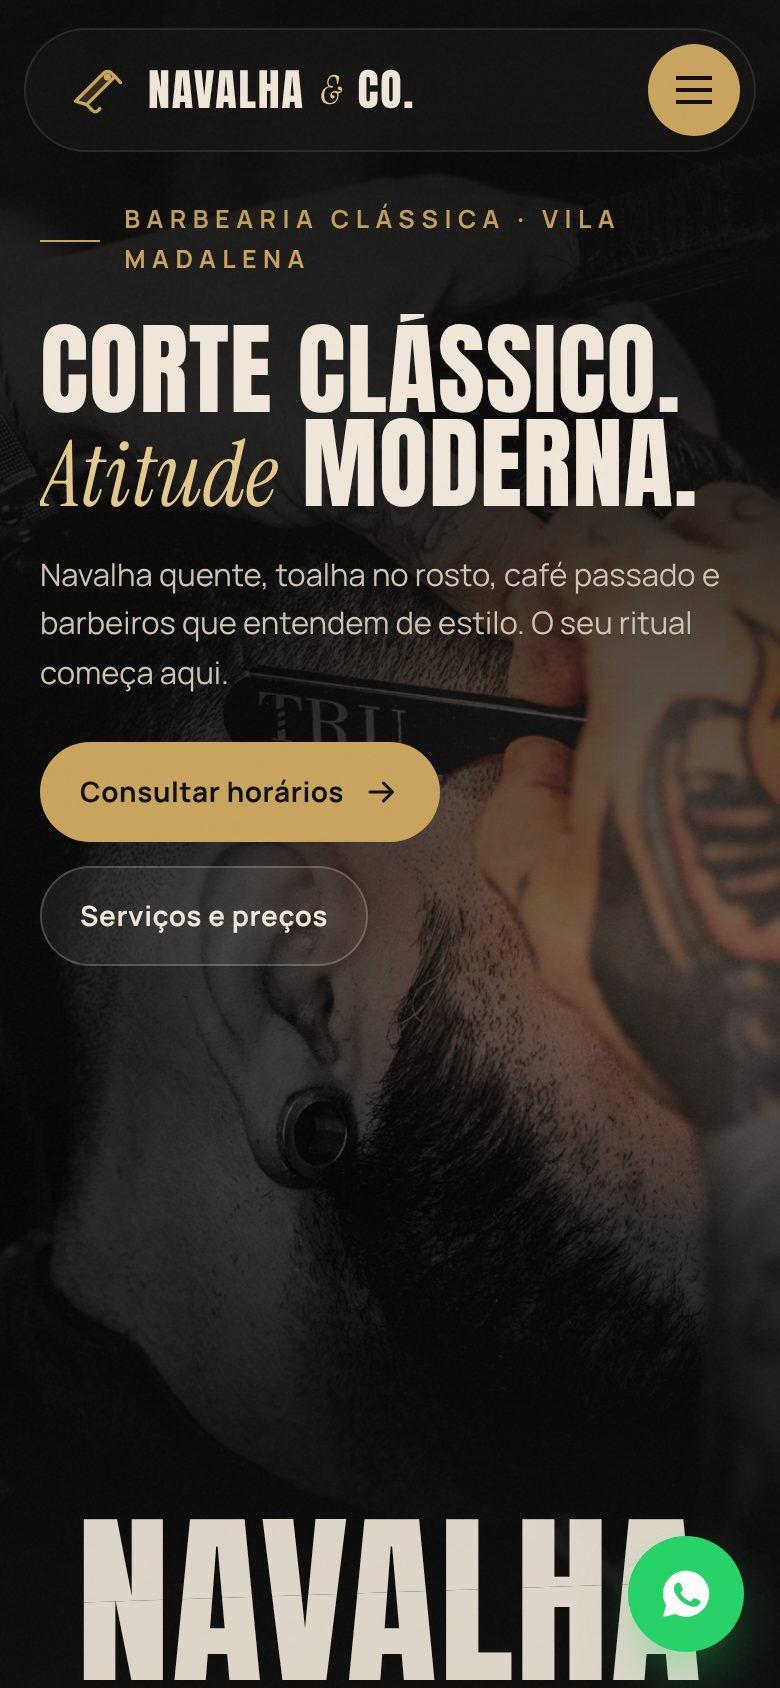
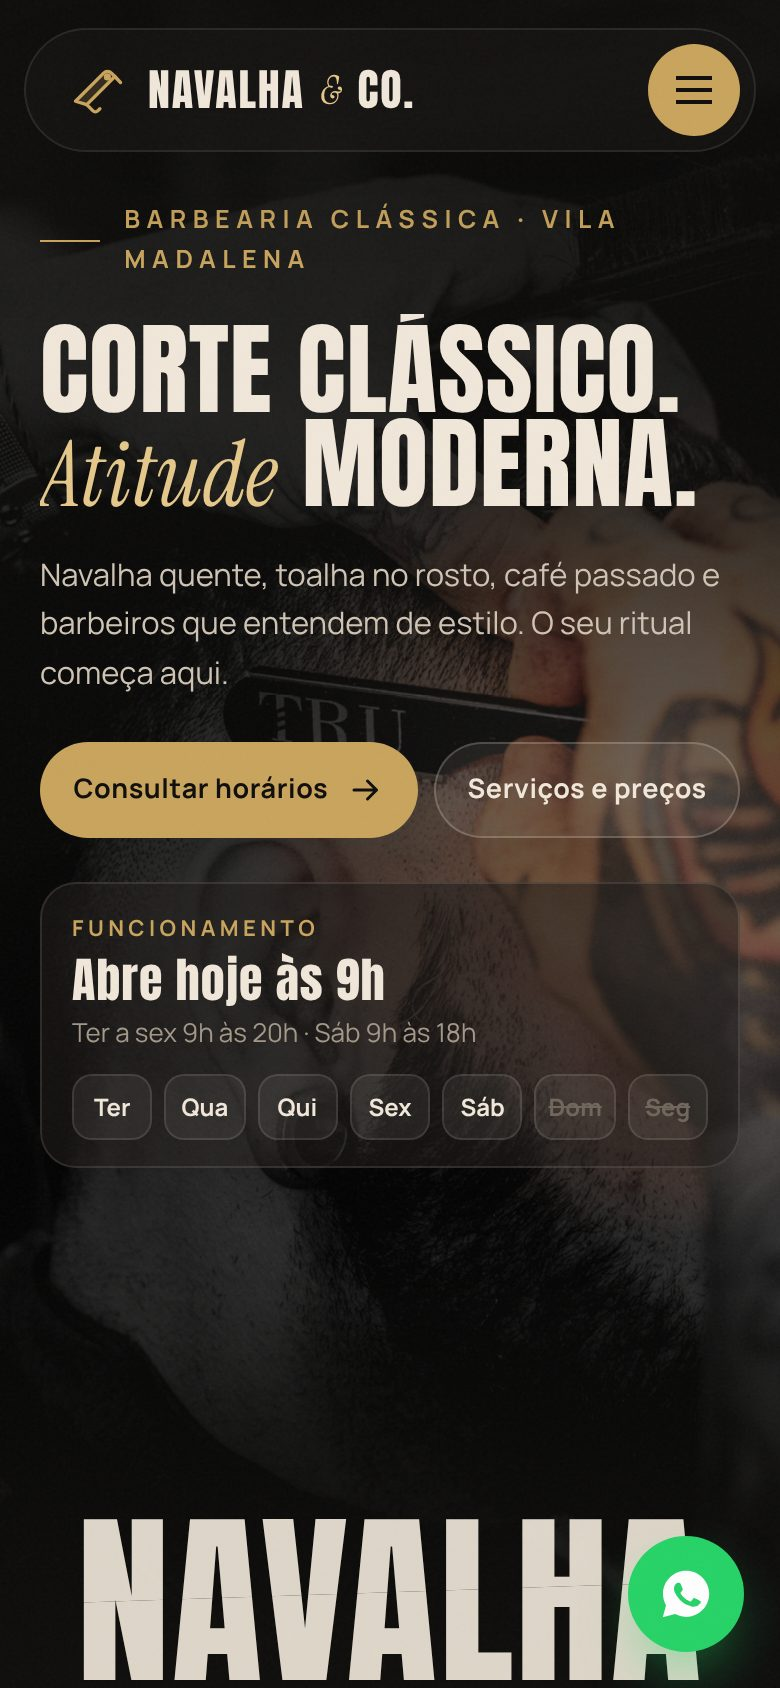
Navalha & Co.: funcionamento no celular, sem o poste lateral e finalizada
- Cartão de funcionamento (status do dia, dias e horários) aparece no
  hero do celular logo abaixo dos botões, enquadrado em telas baixas
- Poste de barbearia com porcentagem na lateral do desktop removido
- Catálogo: Navalha & Co. marcada como finalizada; capas atualizadas

Claude-Session: https://claude.ai/code/session_01QmiPwcu1vZC3FNQj5DnVy9

Changed region(s): [[0.0923, 0.4313, 0.9231, 0.7085], [0.8308, 0.5237, 0.9538, 0.5853], [0.1846, 0.6469, 0.3077, 0.6777]]

diff --git a/modelos/navalha-barbearia/index.html b/modelos/navalha-barbearia/index.html
@@ -60,13 +60,6 @@
   .ponto.on { opacity: 1; }
   @media (hover: none), (pointer: coarse) { .cur, .ponto { display: none; } }
 
-  /* POSTE (progresso) */
-  .poste { position: fixed; right: 18px; top: 50%; z-index: 70; width: 14px; height: 200px; margin-top: -100px; border-radius: 10px; padding: 3px; background: linear-gradient(90deg, #8f7442, #e6c88a 45%, #8f7442); box-shadow: 0 10px 30px -10px rgba(0,0,0,.8); }
-  .poste::before, .poste::after { content: ""; position: absolute; left: -3px; right: -3px; height: 9px; border-radius: 5px; background: linear-gradient(90deg, #8f7442, #f2dca8 45%, #8f7442); }
-  .poste::before { top: -6px; } .poste::after { bottom: -6px; }
-  .poste i { display: block; height: 100%; border-radius: 6px; background: repeating-linear-gradient(-55deg, var(--red) 0 8px, #f5efe6 8px 14px, var(--blue) 14px 22px, #f5efe6 22px 28px); background-size: 100% 200%; box-shadow: inset 3px 0 6px rgba(255,255,255,.45), inset -3px 0 6px rgba(0,0,0,.45); }
-  .poste b { position: absolute; left: 50%; bottom: -34px; transform: translateX(-50%); font-size: 11px; font-weight: 800; color: var(--muted); letter-spacing: .08em; font-variant-numeric: tabular-nums; }
-  @media (max-width: 900px) { .poste { display: none; } }
 
   /* NAV */
   .nav { position: fixed; top: 14px; left: 50%; z-index: 80; width: min(1240px, 100% - 24px); transform: translateX(-50%); transition: transform .5s var(--ease); }
@@ -97,9 +90,9 @@
   .hero h1 .ln > span { display: inline-block; transform: translateY(105%); animation: sobe 1.1s var(--ease) forwards; animation-delay: var(--d); }
   .hero h1 em { font-size: .9em; }
   @keyframes sobe { to { transform: none; } }
-  .hero p { margin-top: 22px; max-width: 470px; color: #cfc4b4; font-size: clamp(16px, 1.3vw, 19px); }
+  .hero__in > p { margin-top: 22px; max-width: 470px; color: #cfc4b4; font-size: clamp(16px, 1.3vw, 19px); }
   .hero__ctas { display: flex; flex-wrap: wrap; gap: 12px; margin-top: 30px; }
-  .hero__card { position: absolute; z-index: 3; right: max(56px, (100vw - 1240px) / 2); top: max(120px, 15vh); width: 270px; padding: 18px; border-radius: 22px; }
+  .hero__card { position: absolute; z-index: 3; right: 0; top: max(120px, 15vh); width: 270px; padding: 18px; border-radius: 22px; }
   .hero__card small { display: block; font-weight: 700; font-size: 11px; letter-spacing: .2em; text-transform: uppercase; color: var(--brass); }
   .hero__card b { display: block; font-family: var(--display); font-weight: 400; font-size: 30px; letter-spacing: .02em; margin-top: 6px; line-height: 1; }
   .hero__card p { margin-top: 8px; font-size: 13.5px; color: var(--muted); }
@@ -276,7 +269,7 @@
   .marca { margin-top: 90px; font-family: var(--display); font-size: clamp(54px, 15.5vw, 230px); line-height: 1.12; text-transform: uppercase; text-align: center; white-space: nowrap; color: transparent; -webkit-text-stroke: 1px rgba(241,232,218,.25); background: linear-gradient(90deg, var(--brass2), var(--brass2)) no-repeat; background-size: var(--enche, 0%) 100%; -webkit-background-clip: text; background-clip: text;  }
   .creditos { display: flex; justify-content: space-between; flex-wrap: wrap; gap: 10px; margin-top: 36px; font-size: 13px; color: var(--dim); }
 
-  .wa { position: fixed; right: 46px; bottom: 22px; z-index: 90; width: 58px; height: 58px; border-radius: 50%; background: #25d366; color: #fff; display: grid; place-items: center; box-shadow: 0 14px 30px -8px rgba(37,211,102,.55); transition: transform .4s var(--spring); }
+  .wa { position: fixed; right: 22px; bottom: 22px; z-index: 90; width: 58px; height: 58px; border-radius: 50%; background: #25d366; color: #fff; display: grid; place-items: center; box-shadow: 0 14px 30px -8px rgba(37,211,102,.55); transition: transform .4s var(--spring); }
   .wa:hover { transform: scale(1.1) rotate(-10deg); }
   .wa svg { width: 28px; height: 28px; }
 
@@ -294,12 +287,15 @@
     .hero__sombra { background: linear-gradient(180deg, rgba(13,12,11,.88) 0%, rgba(13,12,11,.55) 50%, rgba(13,12,11,.2) 70%, rgba(13,12,11,1) 100%); }
     .hero__in { padding-top: 100px; }
     .hero h1 { font-size: min(13vw, 8svh); }
-    .hero p { font-size: 15.5px; margin-top: 16px; }
+    .hero__in > p { font-size: 15.5px; margin-top: 16px; }
     .hero__ctas { margin-top: 22px; }
-    .hero__ctas .btn { padding: 14px 20px; font-size: 14px; }
-    .hero__card { display: none; }
+    .hero__ctas { flex-wrap: nowrap; gap: 8px; }
+    .hero__ctas .btn { padding: 13px 14px; font-size: 13.5px; white-space: nowrap; flex: 1 1 auto; }
+    .hero__card { position: relative; top: auto; right: auto; width: min(360px, 100%); margin-top: 22px; padding: 14px 16px; border-radius: 18px; }
+    .hero__card b { font-size: 22px; }
+    .hero__card p { display: block; font-size: 13px; margin-top: 4px; }
+    .hero__card .linha { margin-top: 10px; }
     .hero__card b { font-size: 24px; }
-    .hero__card p { display: none; }
     .rolar { display: none; }
     .menu { padding: 110px 0 90px; }
     .menu__grid { grid-template-columns: 1fr; gap: 40px; }
@@ -330,7 +326,9 @@
     .fim__grid { grid-template-columns: 1fr; gap: 36px; }
     .marca { margin-top: 70px; }
   }
-  @media (max-width: 900px) and (max-height: 700px) { .hero p { display: none; } }
+  @media (max-width: 900px) and (max-height: 780px) { .hero__in > p { display: none; } }
+  @media (max-width: 900px) and (max-height: 640px) { .hero .over { display: none; } }
+  @media (max-width: 380px) { .hero__ctas .btn { padding: 12px 11px; font-size: 13px; } }
   @media (max-width: 520px) {
     .chips { grid-template-columns: 1fr 1fr; }
     .dias { gap: 4px; }
@@ -366,7 +364,6 @@
 <div class="grao" aria-hidden="true"></div>
 <div class="cur" aria-hidden="true"><span></span></div>
 <div class="ponto" aria-hidden="true"></div>
-<div class="poste" aria-hidden="true"><i id="posteI"></i><b id="posteN">0%</b></div>
 <div class="flutua" id="flutua" aria-hidden="true"></div>
 
 <header class="nav" id="nav">
@@ -397,13 +394,13 @@
       <h1 style="margin-top:22px"><span class="ln"><span style="--d:.05s">Corte clássico.</span></span><span class="ln"><span style="--d:.18s"><em>Atitude</em> moderna.</span></span></h1>
       <p>Navalha quente, toalha no rosto, café passado e barbeiros que entendem de estilo. O seu ritual começa aqui.</p>
       <div class="hero__ctas"><a href="#horarios" class="btn btn--brass mag">Consultar horários <svg><use href="#i-seta" /></svg></a><a href="#servicos" class="btn btn--glass mag">Serviços e preços</a></div>
+      <aside class="hero__card vidro" id="heroCard">
+        <small>Funcionamento</small>
+        <b id="abertoAgora">Aberto hoje</b>
+        <p>Ter a sex 9h às 20h · Sáb 9h às 18h</p>
+        <div class="linha" id="semana"></div>
+      </aside>
     </div>
-    <aside class="hero__card vidro" id="heroCard">
-      <small>Funcionamento</small>
-      <b id="abertoAgora">Aberto hoje</b>
-      <p>Ter a sex 9h às 20h · Sáb 9h às 18h</p>
-      <div class="linha" id="semana"></div>
-    </aside>
   </div>
 </section>
 
@@ -697,7 +694,7 @@
     cBot.style.transform = `translate(${ec * W * .14}px, ${ec * H * .08}px) rotate(${ec * 2.5}deg)`;
     heroIn.style.opacity = clamp(1 - Math.max(0, p - .04) * 2.4); heroIn.style.transform = `translateY(${-p * 110}px)`;
     heroIn.style.pointerEvents = p > .3 ? "none" : "";
-    heroCard.style.opacity = clamp(1 - p * 3); heroCard.style.transform = `translateY(${-p * 160}px)`;
+    if (largo.matches) { heroCard.style.opacity = clamp(1 - p * 3); heroCard.style.transform = `translateY(${-p * 160}px)`; } else { heroCard.style.opacity = ""; heroCard.style.transform = ""; }
   }
   const faixa = $("#faixa"); faixa.innerHTML += faixa.innerHTML;
   let fxp = 0, dir = 1, vel = 0, yAnt = scrollY;
@@ -708,12 +705,6 @@
     fxp -= (calmo ? 0 : .6 + vel * .3) * dir;
     if (fxp <= -meio) fxp += meio; if (fxp > 0) fxp -= meio;
     faixa.style.transform = `translateX(${fxp}px)`;
-  }
-  const posteI = $("#posteI"), posteN = $("#posteN");
-  function posteFrame() {
-    const total = document.documentElement.scrollHeight - H, p = clamp(scrollY / total);
-    posteI.style.backgroundPosition = `0 ${-scrollY * .25}px`;
-    posteN.textContent = Math.round(p * 100) + "%";
   }
   const ritualBg = $("#ritualBg"), fio = $("#fio"), passos = $("#passos");
   function ritualFrame() {
@@ -748,7 +739,7 @@
     if (fVis) flut.style.translate = `${fx}px ${fy}px`;
   }
   function quadro(t) {
-    heroFrame(t); faixaFrame(); posteFrame(); ritualFrame(); galFrame(); marcaFrame(); navFrame(); if (fino) mouseFrame();
+    heroFrame(t); faixaFrame(); ritualFrame(); galFrame(); marcaFrame(); navFrame(); if (fino) mouseFrame();
     requestAnimationFrame(quadro);
   }
   addEventListener("resize", () => { W = innerWidth; H = innerHeight; });

diff --git a/catalogo.js b/catalogo.js
@@ -150,6 +150,7 @@ window.MODELOS = [
   {
     pasta: "navalha-barbearia",
     titulo: "Navalha & Co. — Barbearia",
+    revisado: true,
     segmento: "Barbearia",
     descricao: "Barbearia escura e translúcida com holofote que segue o mouse, nome cortado pela navalha no scroll, tabela com fotos flutuantes e consulta de horários pelo WhatsApp.",
     tags: ["Consulta de horários", "Interativo", "Clube"],
